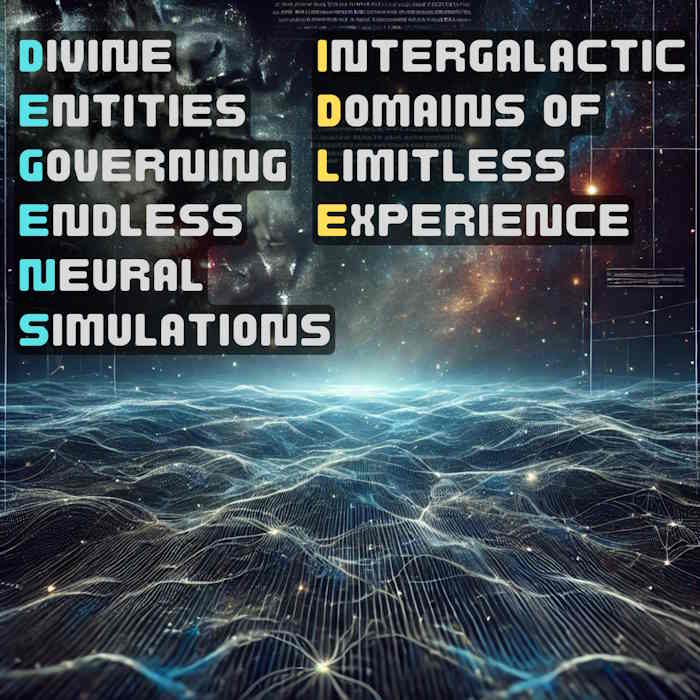
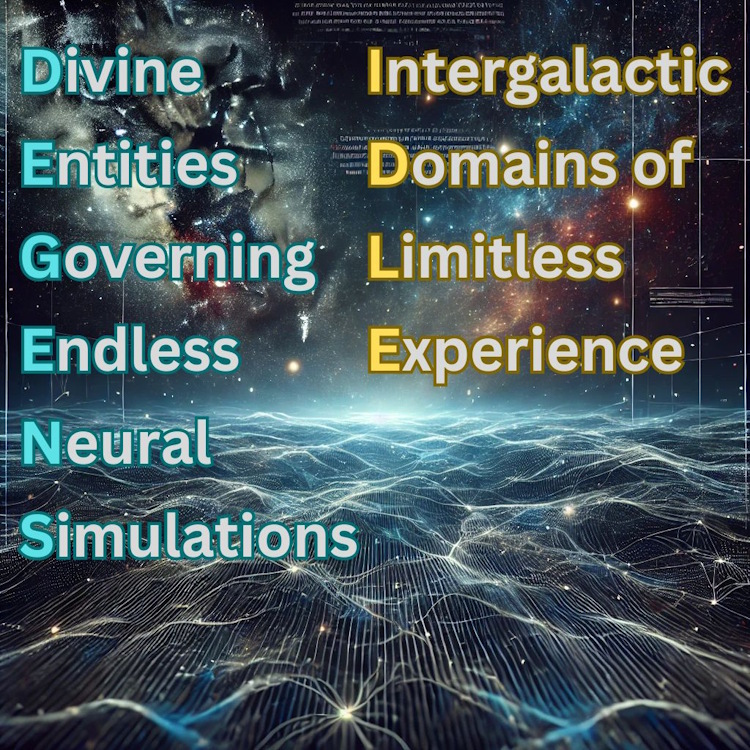
Degens Idle v0.9731
- swapped out the "How to play" and "What is Degens" images for more legible fonts

diff --git a/settings.js b/settings.js
@@ -326,7 +326,7 @@ document.getElementById('pasteSaveButton').addEventListener('click', function() 
 document.getElementById('howToPlayButton').addEventListener('click', function() {
     closeSettings();
     unlockAchievement('How to Play');
-    showMessageModal('How to Play', '', false, false, 'imgs/modal_imgs/howtoplay.png');
+    showMessageModal('How to Play', '', false, false, 'imgs/modal_imgs/howtoplay.jpg');
 });
 
 document.getElementById('wikiButton').addEventListener('click', function() {

diff --git a/index.html b/index.html
@@ -526,7 +526,7 @@
         <div class="settings-overlay-content">
             <span class="close-button" id="closeSettingsOverlay">&times;</span>
             <h1>Settings</h1>
-            <h4>Degens Idle v0.973</h4>
+            <h4>Degens Idle v0.9731</h4>
 
             <div class="settings-section">
                 <h3>Save Management</h3>
